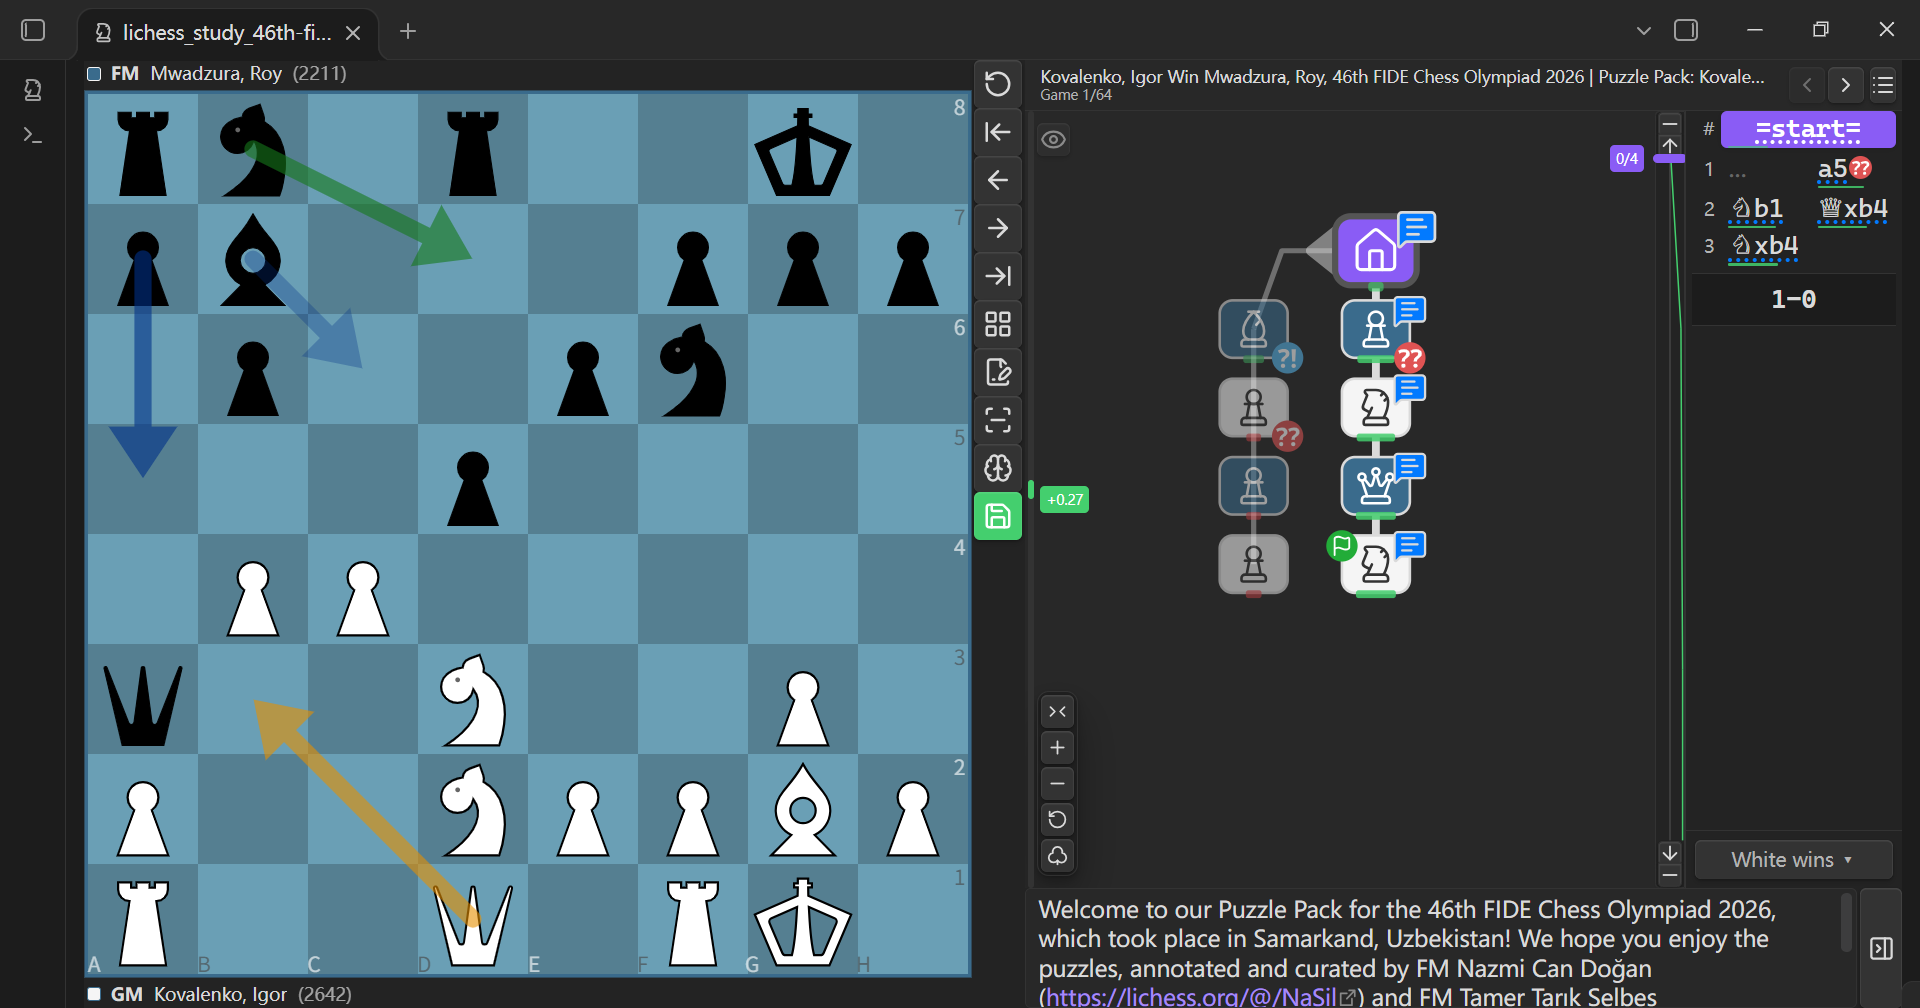
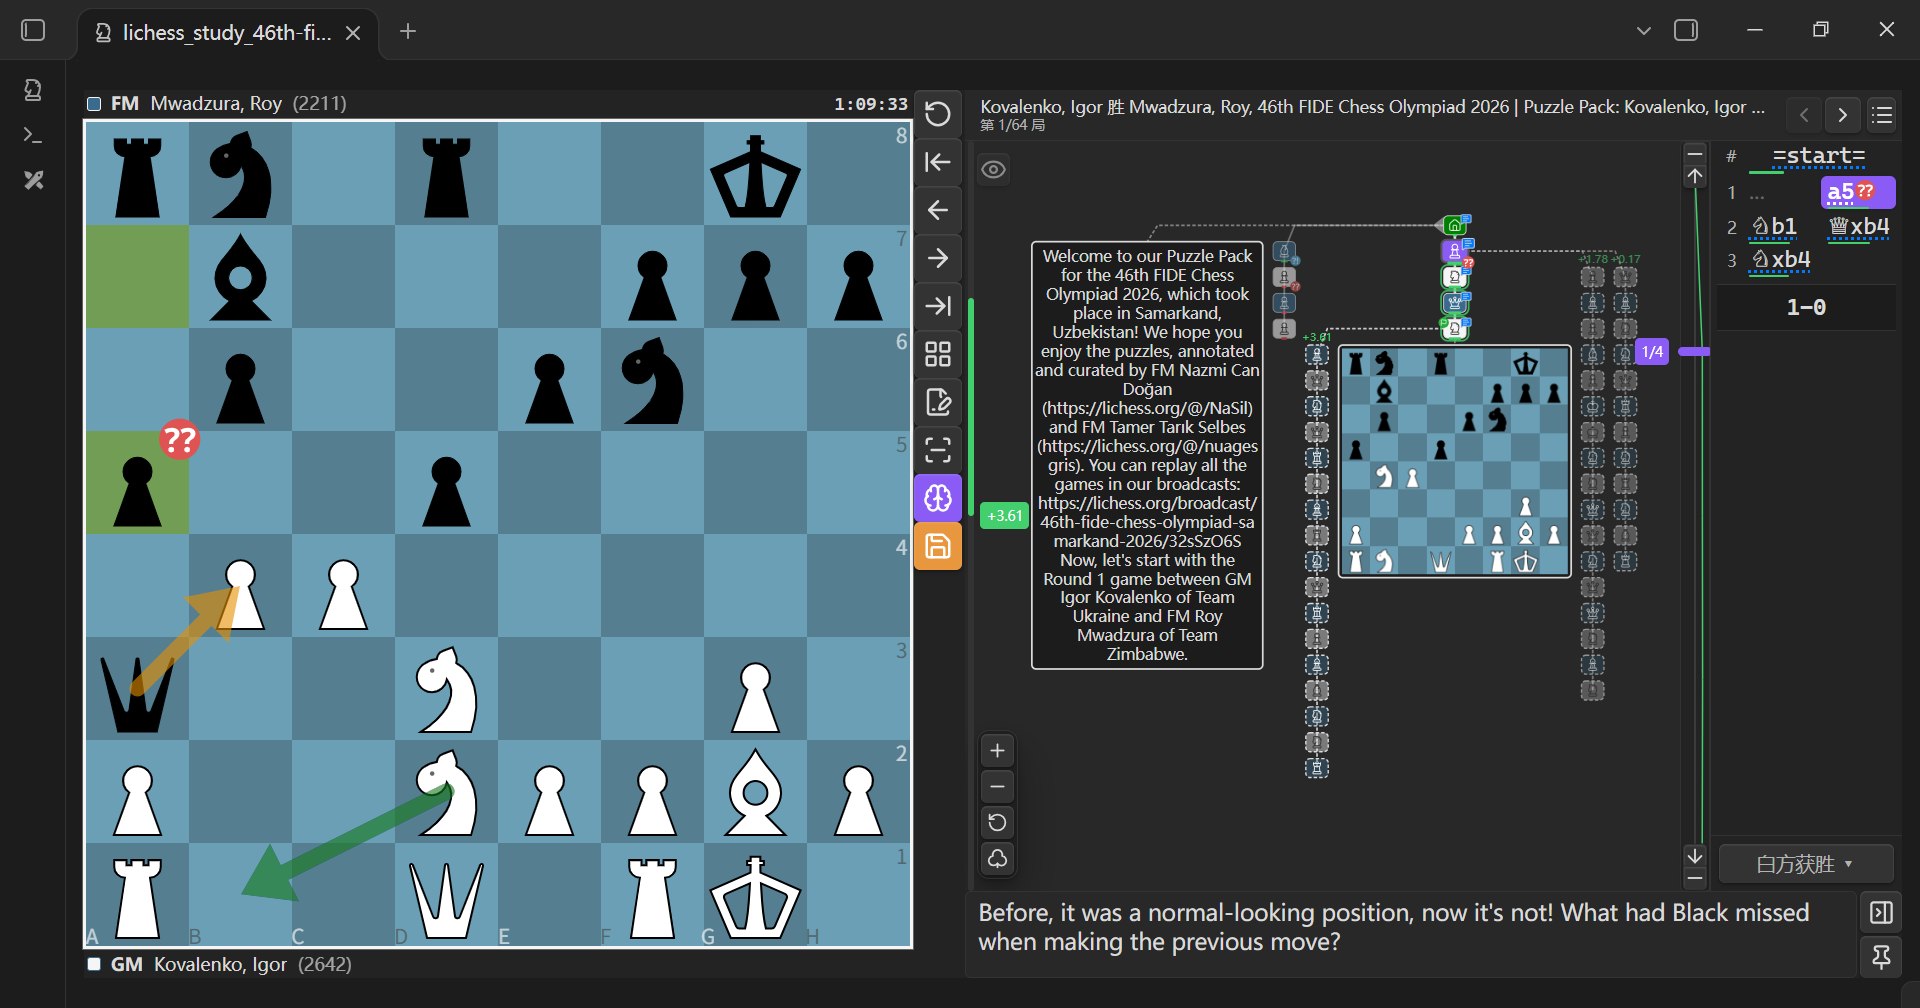
docs: document pin-to-tree and ghost depth in README

diff --git a/README.md b/README.md
@@ -54,7 +54,7 @@ A `fen` code block opens a visual position editor — drag or click to place pie
 
 ### Variation Tree & Keyboard Navigation
 
-Every branch is visualized as a tree graph — click any node to jump to that position, and switch between icon and text label modes. The current branch's arrows render at full opacity while sibling branches fade to 50%, so the line you're on stands out. Keyboard shortcuts keep your hands on the board:
+Every branch is visualized as a tree graph — click any node to jump to that position, and switch between icon and text label modes. Nodes are laid out at their real pixel size, so labels, pinned blocks and previews never overlap. The current branch's arrows render at full opacity while sibling branches fade to 50%, so the line you're on stands out. Keyboard shortcuts keep your hands on the board:
 
 | Shortcut                                | Action                                                                                             |
 | --------------------------------------- | -------------------------------------------------------------------------------------------------- |
@@ -67,6 +67,17 @@ Every branch is visualized as a tree graph — click any node to jump to that po
 | `↑` / `↓` / `←` / `→`                   | Step one move back / forward; jump to game start / end                                             |
 
 These shortcuts work in the PGN file view and in `chess` code blocks alike. In the PGN view they are built into the view and active while it is focused. In a code block, click the board (or anywhere on the block) first — the focused block takes the shortcuts; click back into the note to return to typing. On macOS, `Ctrl+↑`/`Ctrl+↓` may conflict with Mission Control. All branch-switching shortcuts skip branches hidden by folding. All PGN view navigation actions are also available as commands in the Command Palette — without preset hotkeys, to avoid conflicts with core and other plugins; assign your own in Settings → Hotkeys if you want global bindings.
+
+### Pin to the Tree
+
+Keep annotations visible while you browse — the tree itself carries the extras:
+
+- **Pinned comments**: the pin button in the comment box renders the comment as a text block on the tree, connected to its move node
+- **Pinned board previews**: right-click any tree node → **Pin board preview** to keep that position's board on the tree
+- **Grouped cards**: a node's board preview and pinned comment form one aligned card
+- **Persistence**: pins are stored as `[%pin]` PGN markers, so they survive reloads; save options control what gets written back
+
+The right-click node menu also promotes and reorders branches and applies annotations, acting on the right-clicked node without moving the current one.
 
 ### Chess960 (Fischer Random)
 
@@ -86,7 +97,7 @@ Built-in Stockfish 18 (WASM) — no external installation needed.
 - **Eval bar**: live evaluation beside the board (green = white advantage, red = black)
 - **Eval trend chart & node color bars**: see the whole game's evaluation at a glance
 - **Instant eval attribution**: eval bars light up along a searched line without re-running the engine — display only, every position still gets its own full-depth search
-- **Ghost lines**: engine principal variations render on the tree graph as dashed ghost lines — toggle them and pick how many lines (1–5) in settings
+- **Ghost lines**: engine principal variations render on the tree graph as dashed ghost lines — toggle them, pick how many lines (1–5) and how deep each one goes (1–20 plies) in settings
 - **Live streaming**: analysis results (eval, arrows, ghost lines) update progressively per depth while the engine searches
 - **Persistence**: evaluations are stored as `%e:` comments in PGN
 - **Engine play**: play against the engine with configurable depth (1–30) and skill level (0–20)
@@ -121,17 +132,17 @@ The layout adapts to small screens. For best results, combine it with a fullscre
 
 All options live in **Settings → Chess Tree**, grouped as follows:
 
-| Group            | What you can configure                                                                                         |
-| ---------------- | -------------------------------------------------------------------------------------------------------------- |
-| Language         | UI language: Auto (follow app) or a fixed language                                                             |
-| Board Appearance | Board style, piece set, board zoom, coordinate labels, annotation glyphs on the board                          |
-| Game Hints       | Last-move highlight, legal moves, other variations, turn border, sounds & volume, spoken moves, auto jump      |
-| Move List        | Visibility, font size, notation, per-move marks, hover position preview                                        |
-| Engine Analysis  | Depth, skill level, simulation interval, best-move & ponder arrows, auto annotate, ghost line visibility/count |
-| Save             | Include eval on save, eval prompt, annotation format (symbol / NAG / comment), default export folder           |
-| Board Margins    | Top/bottom margin (0–100 px) for fullscreen layouts                                                            |
-| Code Block Names | Game-mode (`chess`/`tree`) and edit-mode (`fen`) block aliases, FEN save target                                |
-| PGN File View    | Enable/disable the view, custom file extensions, new PGN file location                                         |
+| Group            | What you can configure                                                                                                                                 |
+| ---------------- | ------------------------------------------------------------------------------------------------------------------------------------------------------ |
+| Language         | UI language: Auto (follow app) or a fixed language                                                                                                     |
+| Board Appearance | Board style, piece set, board zoom, coordinate labels, annotation glyphs on the board                                                                  |
+| Game Hints       | Last-move highlight, legal moves, other variations, turn border, sounds & volume, spoken moves, auto jump                                              |
+| Move List        | Visibility, font size, notation, per-move marks, hover position preview                                                                                |
+| Engine Analysis  | Depth, skill level, simulation interval, best-move & ponder arrows, auto annotate, ghost line visibility/count/depth                                   |
+| Save             | Include eval on save, ask-before-saving (evals & pinned blocks), save pinned blocks, annotation format (symbol / NAG / comment), default export folder |
+| Board Margins    | Top/bottom margin (0–100 px) for fullscreen layouts                                                                                                    |
+| Code Block Names | Game-mode (`chess`/`tree`) and edit-mode (`fen`) block aliases, FEN save target                                                                        |
+| PGN File View    | Enable/disable the view, custom file extensions, new PGN file location                                                                                 |
 
 Code block names, file extensions, and custom file types take effect after restarting the plugin or Obsidian.
 

diff --git a/README.zh.md b/README.zh.md
@@ -54,7 +54,7 @@ r:true
 
 ### 分支树与键盘导航
 
-每个分支都以树图展示——点击任意节点跳转到该位置，可在图标/文本标签模式间切换。当前分支的箭头全不透明，其余分支淡化为 50%，一眼看清所在线路。快捷键让你手不离盘：
+每个分支都以树图展示——点击任意节点跳转到该位置，可在图标/文本标签模式间切换。节点按真实像素尺寸排布，标签、固定块与预览互不重叠。当前分支的箭头全不透明，其余分支淡化为 50%，一眼看清所在线路。快捷键让你手不离盘：
 
 | 快捷键                                  | 功能                                                                 |
 | --------------------------------------- | -------------------------------------------------------------------- |
@@ -67,6 +67,17 @@ r:true
 | `↑` / `↓` / `←` / `→`                   | 后退 / 前进一步；跳到棋局开头 / 结尾                                 |
 
 这些快捷键在 PGN 文件视图和 `chess` 代码块中均可用。PGN 视图中内建于视图，视图获得焦点时生效；代码块中先点击棋盘（或块内任意位置）使块获得焦点，快捷键即作用于该块，点击笔记正文即可回到编辑。macOS 上 `Ctrl+↑`/`Ctrl+↓` 可能与系统调度中心冲突。所有分支切换快捷键均跳过折叠隐藏的分支。PGN 视图的全部导航动作同时注册为命令面板中的命令——为避免与核心及其他插件冲突，命令不预设快捷键；如需全局绑定，可在 设置 → 快捷键 中自行分配。
+
+### 固定到树
+
+把注解钉在树上，浏览时始终可见：
+
+- **固定评论**：评论框的图钉按钮把评论渲染为树上的文本块，连线指向所属着法节点
+- **固定棋盘预览**：右键任意树节点 → **固定棋盘预览**，该局面的棋盘即常驻树上
+- **分组卡片**：同一节点的棋盘预览与固定评论呈现为一张对齐的卡片
+- **持久化**：固定状态以 `[%pin]` PGN 标记保存，重载不丢；保存选项控制写回内容
+
+右键节点菜单还提供分支升级/排序与标注功能，作用于右键的节点而不移动当前节点。
 
 ### Chess960（菲舍尔任意制象棋）
 
@@ -86,7 +97,7 @@ r:true
 - **评估条**：棋盘旁实时评估（绿色 = 白方优势，红色 = 黑方优势）
 - **评估趋势图与节点色条**：全局评估走势一目了然
 - **评估即时归因**：搜索过的线路上评分条即刻点亮，无需重跑引擎——仅用于展示，每个局面仍会做独立的全深度搜索
-- **虚拟分支线**：引擎主要变着以虚线幽灵分支的形式渲染在分支树上——可在设置中开关并选择显示条数（1–5）
+- **虚拟分支线**：引擎主要变着以虚线幽灵分支的形式渲染在分支树上——可在设置中开关，并选择显示条数（1–5）与每条深度（1–20 步）
 - **流式输出**：分析结果（评分、箭头、虚拟分支线）随引擎搜索按深度实时刷新
 - **评估持久化**：评估以 `%e:` 注释保存在 PGN 中
 - **引擎对弈**：可调深度（1–30）与技能等级（0–20）
@@ -121,17 +132,17 @@ r:true
 
 所有选项都在 **设置 → Chess Tree** 中，按以下分组：
 
-| 分组         | 可配置项                                                                        |
-| ------------ | ------------------------------------------------------------------------------- |
-| 界面语言     | 自动（跟随应用）或手动选择                                                      |
-| 棋盘外观     | 棋盘风格、棋子样式、棋盘缩放、坐标标签、棋盘评注符号                            |
-| 对局提示     | 上一步高亮、合法走法、其他变着、回合边框、音效及音量、朗读、开局跳转            |
-| 着法列表     | 可见性、字号、记谱方式、着法标记、悬停局面预览                                  |
-| 引擎分析     | 深度、技能等级、模拟行棋间隔、最佳/思考箭头、自动标注、虚拟分支线开关/条数      |
-| 保存         | 保存时包含评估、评估提示、标注保存格式（符号后缀 / NAG / 注释）、默认导出文件夹 |
-| 棋盘边距     | 顶部/底部边距（0–100 px），适配全屏布局                                         |
-| 代码块名称   | 对局模式（`chess`/`tree`）与编辑模式（`fen`）代码块别名、FEN 保存目标           |
-| PGN 文件视图 | 视图开关、自定义文件扩展名、新建 PGN 保存位置                                   |
+| 分组         | 可配置项                                                                                                      |
+| ------------ | ------------------------------------------------------------------------------------------------------------- |
+| 界面语言     | 自动（跟随应用）或手动选择                                                                                    |
+| 棋盘外观     | 棋盘风格、棋子样式、棋盘缩放、坐标标签、棋盘评注符号                                                          |
+| 对局提示     | 上一步高亮、合法走法、其他变着、回合边框、音效及音量、朗读、开局跳转                                          |
+| 着法列表     | 可见性、字号、记谱方式、着法标记、悬停局面预览                                                                |
+| 引擎分析     | 深度、技能等级、模拟行棋间隔、最佳/思考箭头、自动标注、虚拟分支线开关/条数/深度                               |
+| 保存         | 保存时包含评估、保存前确认（评估与固定块）、保存固定块、标注保存格式（符号后缀 / NAG / 注释）、默认导出文件夹 |
+| 棋盘边距     | 顶部/底部边距（0–100 px），适配全屏布局                                                                       |
+| 代码块名称   | 对局模式（`chess`/`tree`）与编辑模式（`fen`）代码块别名、FEN 保存目标                                         |
+| PGN 文件视图 | 视图开关、自定义文件扩展名、新建 PGN 保存位置                                                                 |
 
 代码块名称、文件扩展名和自定义文件类型需重启插件或 Obsidian 后生效。
 
